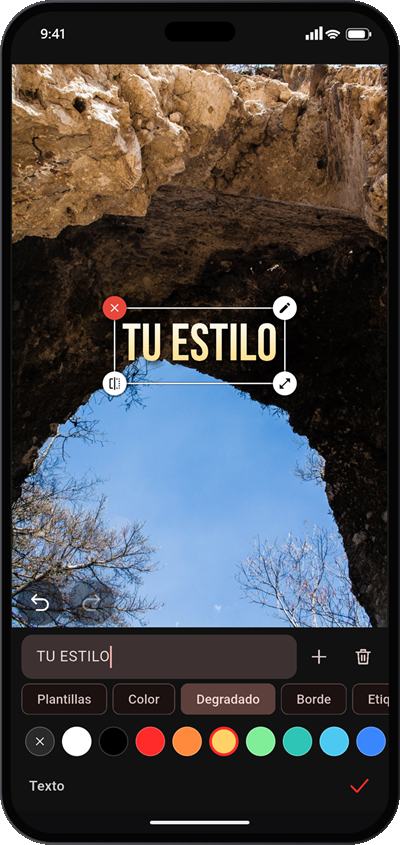
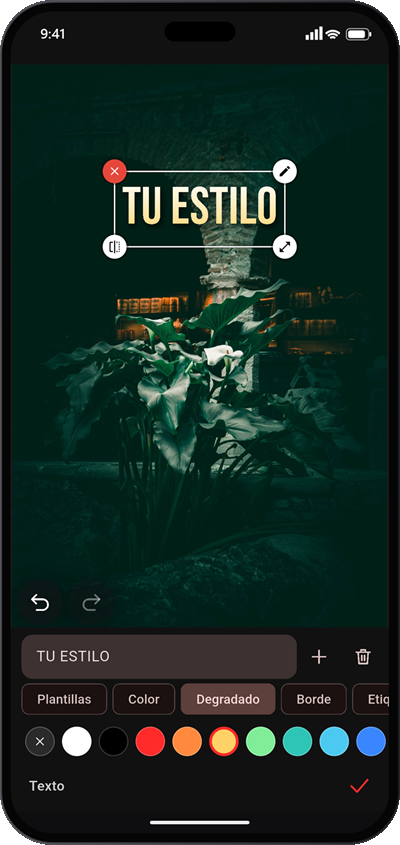
Página de testers: sin la imagen de arriba (ya está en el carrusel) y Texto con la foto de los arcos

diff --git a/testers.html b/testers.html
@@ -35,15 +35,10 @@
   .nombre { font-weight: 800; font-size: 1.5rem; letter-spacing: .02em; }
   .nombre small { display: block; font-weight: 500; font-size: .8rem; color: var(--suave); letter-spacing: 0; }
 
-  .heroe { display: grid; grid-template-columns: 1fr auto; gap: 20px; align-items: center; margin: 10px 0 8px; }
+  .heroe { margin: 10px 0 8px; }
   h1 { font-size: clamp(2rem, 7vw, 2.7rem); line-height: 1.05; margin: 0 0 14px; }
   h1 span { display: block; background: var(--arcoiris); -webkit-background-clip: text; background-clip: text; color: transparent; }
   .intro { color: var(--suave); margin: 0; }
-  .telefono { width: 160px; transform: rotate(4deg); filter: drop-shadow(0 18px 30px rgba(0,0,0,.55)); }
-  @media (max-width: 480px) {
-    .heroe { grid-template-columns: 1fr; }
-    .telefono { width: 170px; justify-self: center; transform: rotate(-3deg); margin-top: 6px; }
-  }
 
   /* Carrusel 3D: las tarjetas giran alrededor de la del centro; se mueve solo y también con el dedo. */
   .carrusel { margin: 8px -16px 34px; user-select: none; -webkit-user-select: none; }
@@ -160,7 +155,6 @@
         Play Store, Google necesita confirmar que personas reales ya lo usaron: los testers. Unirte toma un par de
         minutos.</p>
     </div>
-    <img class="telefono" src="testers/tel-1.png" alt="Opsira comparando antes y después de un filtro en la foto de un insecto">
   </div>
 
   <div class="etiquetas"><span>Gratis</span><span>Sin suscripciones</span><span>Sin marca de agua</span><span>Solo Android</span></div>
